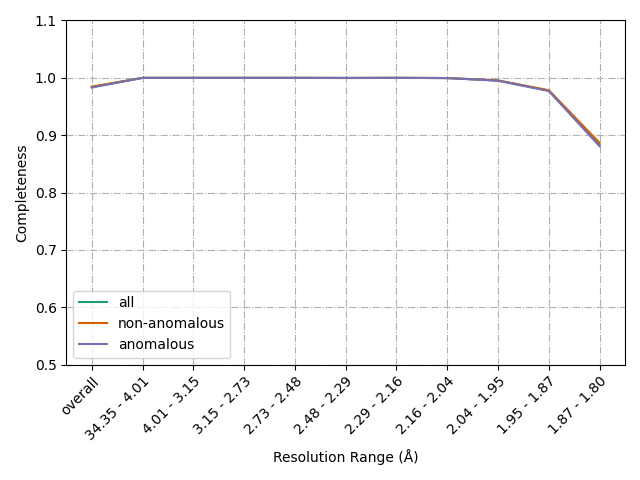
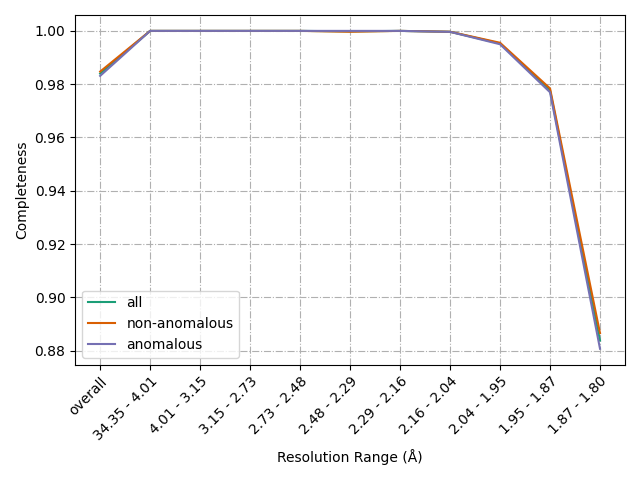
switched plot history to default

diff --git a/careless_stats/careless_stats.md b/careless_stats/careless_stats.md
@@ -14,18 +14,33 @@ This notebook describes all the machine learning and data crossvalidation metric
 `careless.stats` also computes standard crystallography statistics, such as completeness and $I/\sigma(I)$. 
 
 ```
-careless.completeness ./thermolysin_dw/thl_1p8A_grid_both.mtz -o ./thermolysin_dw/completeness.csv -b 10
+careless.completeness ./thermolysin_dw/thl_1p8A_grid_both.mtz -i ./thermolysin_dw/completeness.png -b 10 > ./thermolysin_dw/completeness.txt
 ```
 ![image](./thermolysin_dw/completeness.png)
 
-Now, in python: 
 ```
-pd.read_csv("./thermolysin_dw/completeness.csv")
+cat ./thermolysin_dw/completeness.txt
 ```
-![image](./thermolysin_dw/pd_completeness.png)
+
+```
+Resolution Range (Å)      all  non-anomalous  anomalous
+             overall 0.983983       0.984726   0.983116
+        34.35 - 4.01 1.000000       1.000000   1.000000
+         4.01 - 3.15 1.000000       1.000000   1.000000
+         3.15 - 2.73 1.000000       1.000000   1.000000
+         2.73 - 2.48 1.000000       1.000000   1.000000
+         2.48 - 2.29 0.999829       0.999680   1.000000
+         2.29 - 2.16 1.000000       1.000000   1.000000
+         2.16 - 2.04 0.999661       0.999680   0.999640
+         2.04 - 1.95 0.995282       0.995543   0.994989
+         1.95 - 1.87 0.977730       0.978411   0.976971
+         1.87 - 1.80 0.883811       0.886589   0.880719
+
+```
 
 The completeness of the last resolution bin is 0.88, and the overall completeness is 0.984. 
 
+### $\text{I}/\sigma \text{I}$
 ```careless.isigi ./thermolysin_dw/thl_1p8A_grid_xval_[0-1].mtz --intensity-key I --uncertainty-key SigI -i ./thermolysin_dw/isigi.png -b 10```
 
 ![image](./thermolysin_dw/isigi.png)
@@ -99,51 +114,21 @@ The above plot displays the CCpred for each image. Images with low CCpred are ei
 
 `careless` is a package for scaling and merging crystallographic data using variational inference. Every time I process a dataset using `careless`, I will learn the distribution of the structure factor amplitudes and the scales for each miller index, given the intensity of each observed reflection in the input dataset. The scale function is implemented as a neural network, whose parameters are optimized by minimizing an objective function ('loss'). 
 
-```
-import careless.stats
-import matplotlib.pyplot as plt
-import pandas as pd
-
-training_metrics = pd.read_csv("./thermolysin_dw/thl_1p8A_grid_history.csv")
-training_metrics.plot(x="step",y="loss", loglog=True)
-plt.savefig("./thermolysin_dw/loss.png")
-plt.show()
-
-plt.clf()
-
-fig,ax = plt.subplots()
-training_metrics.plot(x="step",y="NLL", ax=ax,loglog=True)
-training_metrics.plot(x="step",y="NLL_val", ax=ax, loglog=True)
-training_metrics.plot(x="step",y="F KLDiv", ax=ax, loglog=True)
-plt.savefig("./thermolysin_dw/loss_components.png")
-plt.show()
-```
-![image](./thermolysin_dw/loss.png)
-
-
-We see that the loss goes down over the 30000 steps of training. This loss is smooth. If the loss is jagged, then I advise increasing `--mc-samples` for smoother training. Training takes about 17.5 minutes as according to the below log:
-
-``` 
-head -c 16k ./thermolysin_dw/myoutput_19756592.err
-
-Training:   0%|                                                                                               | 0/30000 [00:00<?, ?it/s]WARNING: All log messages before absl::InitializeLog() is called are written to STDERR
-I0000 00:00:1707949336.689264 1893395 device_compiler.h:186] Compiled cluster using XLA!  This line is logged at most once for the lifetime of the process.
-Training:   0%| | 92/30000 [00:15<17:11, 29.01it/s, Grad Norm=1.08e+07, loss=3.59e+07, F KLDiv=1.28e+06, NLL=3.47e+07, NLL_val=3.48e+07]
-```
-
-This is the careless training log, which, at each step, reports all the machine learning metrics. We will go through most of these metrics now. 
-
 Our objective function is the standard ELBO, whose negative we minimize:
 $${{{{{{{-\rm{ELBO}}}}}}}}\left(q\right)={-{\mathbb{E}}}_{q}\left[\log p(I|F,{{\Sigma }})\right]+{D}_{KL}\left({q}_{F}\parallel p(F)\right) $$
 
-The first term on the right-hand side is the negative log likelihood (NLL), which represents the degree to which the structure factors faithfully represent the experimental intensities. The secod term is the Kullback-Liebler divergence between the variational distribution on the structure factor amplitudes, and a prior distribution. This term measures the similarity of two distributions that is minimal (zero) when the two are identical. We now plot the NLL, KL divergence (KLDiv), and the NLL_val, which is the NLL on a held-out validation set of reflections (the fraction of the data for which we can specify by `--test-fraction`. I typically choose `--test-fraction=0.1`. 
+The first term on the right-hand side is the negative log likelihood (NLL), which represents the degree to which the structure factors faithfully represent the experimental intensities. The secod term is the Kullback-Liebler divergence between the variational distribution on the structure factor amplitudes, and a prior distribution. This term measures the similarity of two distributions that is minimal (zero) when the two are identical. We now plot the NLL, KL divergence (KLDiv), and the NLL_val, which is the NLL on a held-out validation set of reflections (the fraction of the data for which we can specify by `--test-fraction`. The default is `--test-fraction=0.1`. 
+
+`careless.plot_history -s ./thermolysin_dw/thl_1p8A_grid_history.csv --show`
+![image](./thermolysin_dw/thl_plot_history.png)
+
+This plot is interactive in the matplotlib GUI. The NLL and NLL_val are almost identical, indicating minimal overfitting, and both go down, indicating that the the neural network is learning the scales and structure factor amplitudes. The KLDiv actually goes down, as the structured prior introduced by the double-Wilson distribution is initially distinct from the factorized prior. 
+
+All these statistics can also be visualized with `pandas` in a python environment: 
+
+`pd.read_csv(./thermolysin_dw/thl_1p8A_grid_history.csv)
+...
+`
 
 ![image](./thermolysin_dw/loss_components.png)
 
-The NLL and NLL_val are almost identical, indicating minimal overfitting, and both go down, indicating that the the neural network is learning the scales and structure factor amplitudes. The KLDiv actually goes down, as the structured prior introduced by the double-Wilson distribution is initially distinct from the factorized prior. 
-
-All these statistics can also be visualized with the command line: 
-
-`careless.plot_history -s ./thermolysin_dw/thl_1p8A_grid_history.csv -o ./thermolysin_dw/thl_plot_history.png`
-
-![image](./thermolysin_dw/thl_plot_history.png)
